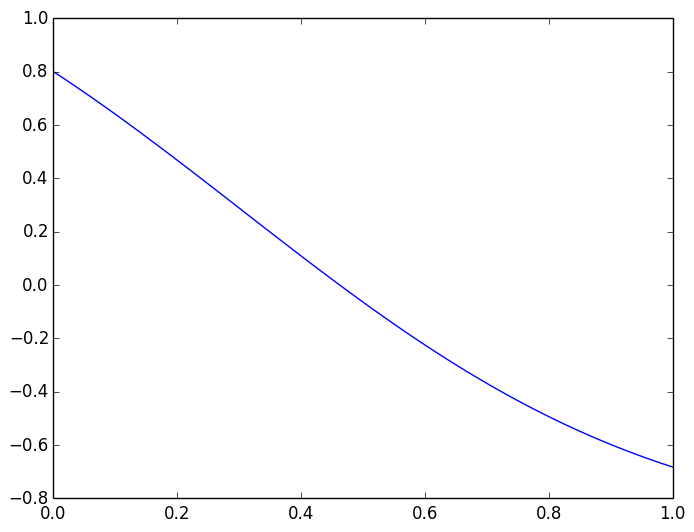
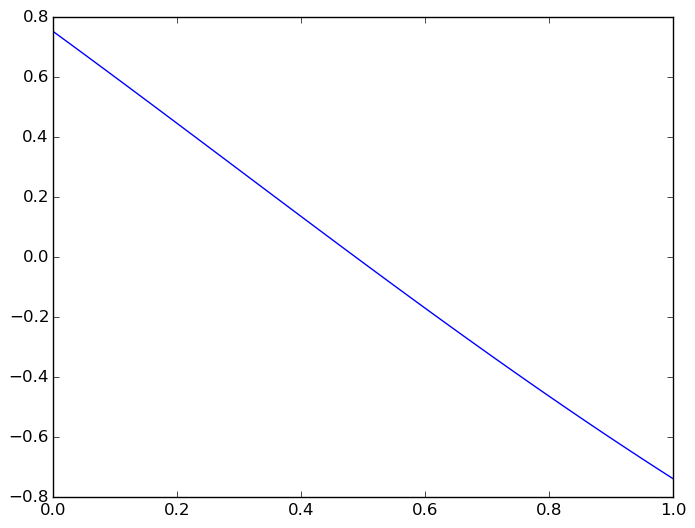
should work

diff --git a/E3/MLP_malte.py b/E3/MLP_malte.py
@@ -2,63 +2,65 @@ import numpy as np
 import matplotlib.pyplot as mplt
 import pylab
 
-#Training data
-(x, t) = np.genfromtxt('RegressionData.txt').T;
-p = len(x)
-nhu = 3
-x = x.reshape(p,1)
-t = t.reshape(p,1)
+def NNL(hiddenneurons, a_f, a_fderiv, data):
+    #Training data
+    (x, t) = data[:, 0], data[:,1],
+    p = len(x)
+    nhu = hiddenneurons
+    x = x.reshape(p,1)
+    t = t.reshape(p,1)
 
-#Weights and biases are set randomly in the range [-0.5, 0.5);
-w = np.asarray([0.5 * np.random.randn(nhu), 0.5 * np.random.randn(nhu)]);
-b = np.asarray([0.5 * np.random.randn(nhu), 0.5 * np.random.randn(1)]);
-#b = np.asarray([[1.,1.,1.],[1.]])
+    #Weights and biases are set randomly in the range [-0.5, 0.5);
+    w = np.asarray([0.5 * np.random.randn(nhu), 0.5 * np.random.randn(nhu)]);
+    b = np.asarray([0.5 * np.random.randn(nhu), 0.5 * np.random.randn(1)]);
+    #b = np.asarray([[1.,1.,1.],[1.]])
 
-a = np.tanh(np.dot(x,w[0].reshape(1,nhu))-b[0]);
-o = (np.mean(a*np.dot(np.ones(p).reshape(p,1),w[1].reshape(1,nhu)),axis=1) - b[1]*np.ones(p)).reshape(p,1);
+    a = a_f(np.dot(x,w[0].reshape(1,nhu))-b[0]);
+    o = (np.mean(a*np.dot(np.ones(p).reshape(p,1),w[1].reshape(1,nhu)),axis=1) - b[1]*np.ones(p)).reshape(p,1);
 
-MeanErrors = [0]
+    MeanErrors = [0]
 
-for i in range(3000):
-   #Error cost function
-   e = 0.5*(o-t)**2;
-   
-   MeanErrors.append(np.mean(e))
-   
-   #break criterium
-   if np.abs(MeanErrors[-1]-MeanErrors[-2])/MeanErrors[-1]<10**-5: 
-       break
-   
-   #Delta_j^v for calculating the weight shift; delta for output is 1 for the identity transfer function
-   d = 4*np.cosh(np.dot(x,w[0].reshape(1,nhu)))**2/np.cosh(2*np.dot(x,w[0].reshape(1,nhu))+1)**2*np.dot(np.ones(p).reshape(p,1),w[1].reshape(1,nhu))
-   
-   #weight adjustion
-   dw1 = np.mean((o-t)*a,axis=0)
-   dw0 = np.mean((o-t)*d*x,axis=0)
-   
-   w[0]-=0.05*dw0
-   w[1]-=0.05*dw1
-   
-   a = np.tanh(np.dot(x,w[0].reshape(1,nhu))-b[0]);
-   o = (np.mean(a*np.dot(np.ones(p).reshape(p,1),w[1].reshape(1,nhu)),axis=1) - b[1]*np.ones(p)).reshape(p,1);
-    
-#a
-iterations = range(len(MeanErrors))
-mplt.plot(iterations,MeanErrors)
-pylab.savefig('./3_1a.png', bbox_inches='tight')
-mplt.clf()
+    for i in range(3000):
+       #Error cost function
+       e = 0.5*(o-t)**2;
 
-#b
-x = np.linspace(0.,1.,100).reshape(100,1)
-a = np.tanh(np.dot(x,w[0].reshape(1,nhu))-b[0]);
-for i in range(3):
-   mplt.plot(x,a[:,i])
-pylab.savefig('./3_1b.png', bbox_inches='tight')
-mplt.clf()
+       MeanErrors.append(np.mean(e))
 
-#c
-o = (np.mean(a*np.dot(np.ones(100).reshape(100,1),w[1].reshape(1,nhu)),axis=1) - b[1]*np.ones(100)).reshape(100,1);
-mplt.plot(x,o)
-pylab.savefig('./3_1c.png', bbox_inches='tight')
-mplt.clf()
+       #break criterium
+       if np.abs(MeanErrors[-1]-MeanErrors[-2])/MeanErrors[-1]<10**-5:
+           break
 
+       #Delta_j^v for calculating the weight shift; delta for output is 1 for the identity transfer function
+       #d = 4*np.cosh(np.dot(x,w[0].reshape(1,nhu)))**2/np.cosh(2*np.dot(x,w[0].reshape(1,nhu))+1)**2*np.dot(np.ones(p).reshape(p,1),w[1].reshape(1,nhu))
+       d = a_fderiv(np.dot(x, w[0].reshape(1, nhu)))*np.dot(np.ones(p).reshape(p,1),w[1].reshape(1,nhu))
+       #weight adjustion
+       dw1 = np.mean((o-t)*a,axis=0)
+       dw0 = np.mean((o-t)*d*x,axis=0)
+
+       w[0]-=0.05*dw0
+       w[1]-=0.05*dw1
+
+       a = np.tanh(np.dot(x,w[0].reshape(1,nhu))-b[0]);
+       o = (np.mean(a*np.dot(np.ones(p).reshape(p,1),w[1].reshape(1,nhu)),axis=1) - b[1]*np.ones(p)).reshape(p,1);
+
+    #a
+    iterations = range(len(MeanErrors))
+    mplt.plot(iterations,MeanErrors)
+    pylab.savefig('./3_1a.png', bbox_inches='tight')
+    mplt.clf()
+
+    #b
+    x = np.linspace(0.,1.,100).reshape(100,1)
+    a = np.tanh(np.dot(x,w[0].reshape(1,nhu))-b[0]);
+    for i in range(3):
+       mplt.plot(x,a[:,i])
+    pylab.savefig('./3_1b.png', bbox_inches='tight')
+    mplt.clf()
+
+    #c
+    o = (np.mean(a*np.dot(np.ones(100).reshape(100,1),w[1].reshape(1,nhu)),axis=1) - b[1]*np.ones(100)).reshape(100,1);
+    mplt.plot(x,o)
+    pylab.savefig('./3_1c.png', bbox_inches='tight')
+    mplt.clf()
+
+    return o[-1]

diff --git a/E3/MLPMartin.py b/E3/MLPMartin.py
@@ -33,13 +33,15 @@ act = f_prop(x, w);
 err = ((activations[-1]-t)**2/2);
 d = np.vectorize(dtanh)([np.dot(w[0], s) for s in x]);
 E = np.mean(e);
-for ix in x:
-    for j in range(w[0]):
-        for i in range(w[0].T)
-        dEdw_0[j][i] = (act[1] - t)*ix*d[0][0];
-        dEdw_00 = (act[1] - t)*i[0]*d[0][0];
+dedw_0 = np.zeros(w[0].shape);
+dedw_1 = np.zeros(w[1].shape);
+for i in range(len(w[0].T)):
+    for j in range(len(w[0])):
+        for n in range(len(x)):
+            dedw_0[j,i] += (act[1][n] - t[n])*x[n][j]*d[n][i];
 
-dEdw_2 = (act[1] - t)*act[0]
+
+#dEdw_2 = (act[1] - t)*act[0]
 
     #loc_err = backward_prop(x, w, activations[1]);
     #m_loc_err = ([np.mean(err,0) for err in loc_err]);

diff --git a/E3/3_2.py b/E3/3_2.py
@@ -1,0 +1,13 @@
+import MLP_malte
+import numpy as np
+data = np.genfromtxt('simulatedRFmapping.csv', delimiter=',', skip_header=1);
+def dtanh(x):
+    return (4*np.cosh(x)**2/((np.cosh(2*x)+1)**2));
+
+def tan1(x):
+    return np.vectorize(1+np.tanh(x));
+
+o_1 = MLP_malte.NNL(1,tan1, dtanh, data);
+o_2 = MLP_malte.NNL(2,tan1, dtanh, data);
+o_3 = MLP_malte.NNL(3,tan1, dtanh, data);
+o_4 = MLP_malte.NNL(4,tan1, dtanh, data);

diff --git a/E3/3_2/3_2.py b/E3/3_2/3_2.py
@@ -1,0 +1,10 @@
+import MLP_malte
+import numpy as np
+data = np.genfromtxt('simulatedRFmapping.csv', delimiter=',', skip_header=1);
+def dtanh(x):
+    return (4*np.cosh(x)**2/((np.cosh(2*x)+1)**2));
+
+o_1 = MLP_malte.NNL(1,1+np.tanh, dtanh, data);
+o_2 = MLP_malte.NNL(2,1+np.tanh, dtanh, data);
+o_3 = MLP_malte.NNL(3,1+np.tanh, dtanh, data);
+o_4 = MLP_malte.NNL(4,1+np.tanh, dtanh, data);

diff --git a/E3/3_1.py b/E3/3_1.py
@@ -1,0 +1,8 @@
+#Initilize the first neural network
+import MLP_malte
+import numpy as np
+def dtanh(x):
+    return (4*np.cosh(x)**2/((np.cosh(2*x)+1)**2));
+
+data = np.genfromtxt('RegressionData.txt').T;
+output = MLP_malte.NNL(3, np.tanh, dtanh, data);

diff --git a/E4/.#4_1.py b/E4/.#4_1.py
@@ -1,0 +1,1 @@
+martin@martin-Lenovo-G50-45.4346:1446815084
